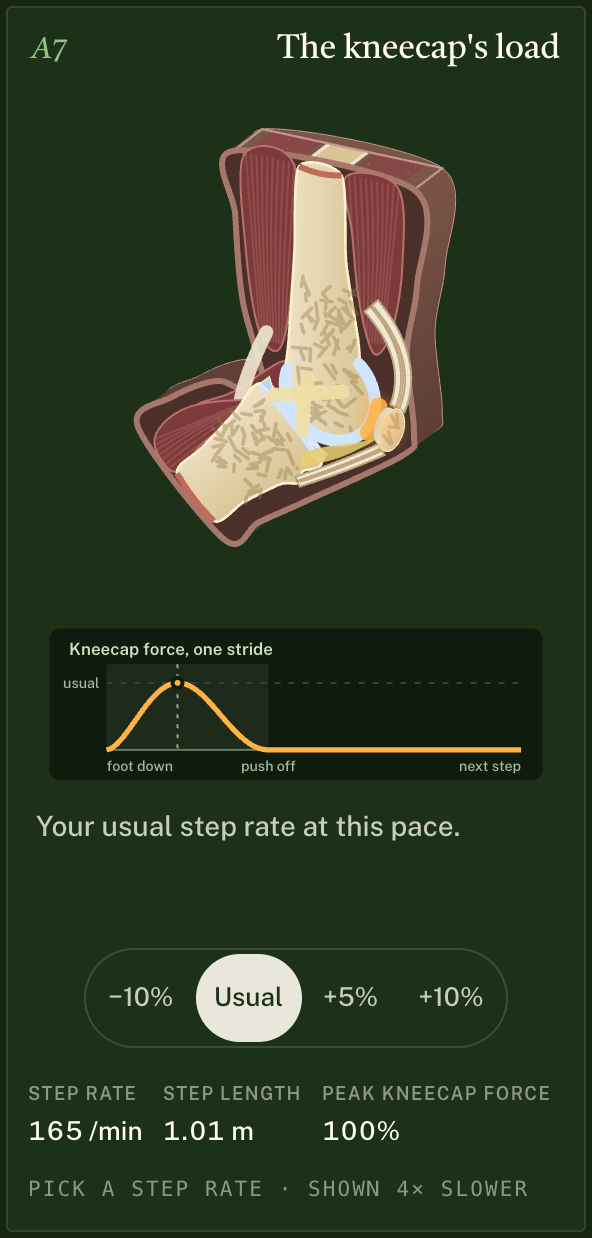
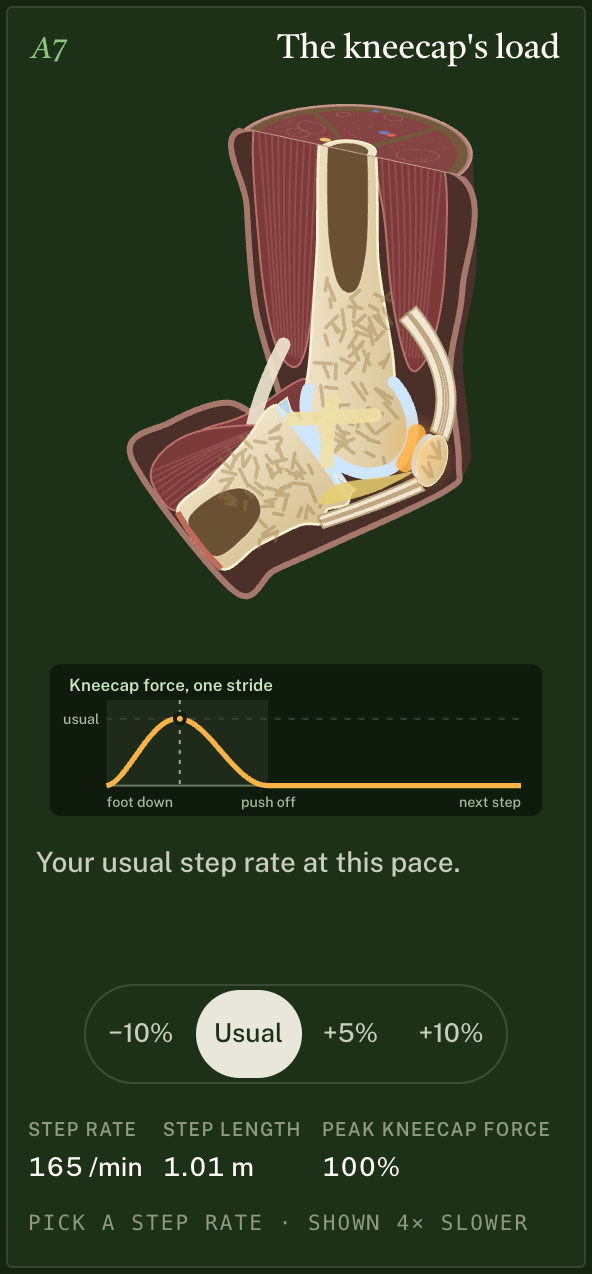
A7: the knee becomes a leg cut in half, with a round far half
Peter on the slab: "better, but it looks like an unnatural slice." The
leg is now hemisected: the section is the cut face, the near half is
gone, and the far half keeps its round skin.

- live.js drawFar(): the back and front skin edges are paired by arc
  length into 46 chords, and each is swept round behind the cut as a
  half-circle. Facets facing away are culled; the rest are Lambert
  shaded between the theme's skin tones and painted back to front. It
  follows the stride, and the knee bend needs no special case.
- Top: the far half of the thigh cut straight across. Femur cortex
  ring with marrow, intermuscular septa, rectus femoris, sartorius,
  gracilis and hamstrings, femoral artery and vein, great saphenous
  vein and the sciatic nerve.
- Cut face: clipped flat at the thigh's cut, with marrow canals added
  to the femur and tibia shafts.
- The frame is fitted to the real reach over the stride, so the knee
  is back to about its round-1 size.
- review/a7-rounds-*.png: flat, slab and cut-in-half side by side.
- Verified: 390/360/320 in both themes, reduced motion and desktop
  (peak force and swing). No sideways scroll, console clean, line
  ends 0.

diff --git a/figures/a7-knee/live.js b/figures/a7-knee/live.js
@@ -1,6 +1,7 @@
 // A7 live code: one running stride, slowed. The tibia swings about the condyle by bendAt(φ);
 // the kneecap is placed on its groove where the patellar tendon (fixed length) reaches the
-// tibial tuberosity; tendons, fat pad, ligaments, calf and skin (and the slab's outer surface) follow. While the foot is down,
+// tibial tuberosity; tendons, fat pad, ligaments, calf and skin follow, and the far half of the leg
+// keeps its round skin behind the cut. While the foot is down,
 // the kneecap's contact glows with pfAt(φ) from Fig 4's kneeOf.
 const DATA = __DATA__;
 
@@ -47,6 +48,98 @@ function mount(fig) {
       R.push([p[0] - n[0] * w, p[1] - n[1] * w]);
     });
     return { d: `M${[...L, ...R.reverse()].map((p) => `${f1(p[0])} ${f1(p[1])}`).join("L")}Z`, pts };
+  }
+
+  // ---------------------------------------------------------------- the far half of the leg (round skin behind the cut)
+  // The skin's back and front edges are paired into chords along the leg; each chord is swept round
+  // as a half-circle behind the cut (depth = half its length × FAR.round). Facets facing away are
+  // culled, the rest shaded by facing and painted back to front.
+  const FAR = DATA.far;
+  const sA = Math.sin(FAR.A * RAD), cA = Math.cos(FAR.A * RAD), sE = Math.sin(FAR.E * RAD), cE = Math.cos(FAR.E * RAD);
+  const VIEW = [cA * cE, sA * cE, sE];
+  const LIGHT = (() => {
+    const l = [-0.35, 0.55, 0.76];
+    const m = Math.hypot(...l);
+    return l.map((v) => v / m);
+  })();
+  const css = getComputedStyle(fig);
+  const rgbOf = (name, fb) => {
+    const m = /^#?([0-9a-f]{6})$/i.exec((css.getPropertyValue(name) || fb).trim()) || /^#?([0-9a-f]{6})$/i.exec(fb);
+    return [0, 2, 4].map((i) => parseInt(m[1].slice(i, i + 2), 16));
+  };
+  const SKIN_HI = rgbOf("--a7-w0", "#f0d3c2");
+  const SKIN_LO = rgbOf("--a7-w1", "#d5a691");
+  const tone = (t) => `rgb(${SKIN_LO.map((lo, i) => Math.round(lo + (SKIN_HI[i] - lo) * t)).join(",")})`;
+  function sampleCR(points, k = 0.9, steps = 8) {
+    const n = points.length;
+    const at = (i) => points[Math.max(0, Math.min(n - 1, i))];
+    const out = [points[0]];
+    for (let i = 0; i < n - 1; i++) {
+      const p0 = at(i - 1), p1 = at(i), p2 = at(i + 1), p3 = at(i + 2);
+      const c1 = [p1[0] + ((p2[0] - p0[0]) / 6) * k, p1[1] + ((p2[1] - p0[1]) / 6) * k];
+      const c2 = [p2[0] - ((p3[0] - p1[0]) / 6) * k, p2[1] - ((p3[1] - p1[1]) / 6) * k];
+      for (let s = 1; s <= steps; s++) {
+        const t = s / steps;
+        const u = 1 - t;
+        out.push([0, 1].map((c) => u * u * u * p1[c] + 3 * u * u * t * c1[c] + 3 * u * t * t * c2[c] + t * t * t * p2[c]));
+      }
+    }
+    return out;
+  }
+  function byLength(pts, n) {
+    const acc = [0];
+    for (let i = 1; i < pts.length; i++) acc.push(acc[i - 1] + Math.hypot(pts[i][0] - pts[i - 1][0], pts[i][1] - pts[i - 1][1]));
+    const L = acc[acc.length - 1];
+    const out = [];
+    let j = 0;
+    for (let q = 0; q < n; q++) {
+      const want = (L * q) / (n - 1);
+      while (j < acc.length - 2 && acc[j + 1] < want) j++;
+      const t = (want - acc[j]) / (acc[j + 1] - acc[j] || 1);
+      out.push([pts[j][0] + (pts[j + 1][0] - pts[j][0]) * t, pts[j][1] + (pts[j + 1][1] - pts[j][1]) * t]);
+    }
+    return out;
+  }
+  const NL = 46;
+  const NPHI = 36;
+  function drawFar(back, front) {
+    const A = byLength(sampleCR(back), NL);
+    const B = byLength(sampleCR(front), NL);
+    const lv = A.map((a, i) => {
+      const b = B[i];
+      const h = [(b[0] - a[0]) / 2, (b[1] - a[1]) / 2];
+      const r = Math.hypot(h[0], h[1]);
+      return { m: [(a[0] + b[0]) / 2, (a[1] + b[1]) / 2], h, r, u: [h[0] / r, h[1] / r] };
+    });
+    const pt = (l, ph) => {
+      const d = Math.sin(ph) * l.r * FAR.round;
+      return [l.m[0] + Math.cos(ph) * l.h[0] + d * FAR.w[0], l.m[1] + Math.cos(ph) * l.h[1] + d * FAR.w[1]];
+    };
+    const quads = [];
+    for (let i = 0; i < NL - 1; i++) {
+      const l0 = lv[i];
+      const l1 = lv[i + 1];
+      const ux = l0.u[0] + l1.u[0];
+      const uy = l0.u[1] + l1.u[1];
+      const um = Math.hypot(ux, uy) || 1;
+      for (let j = 0; j < NPHI; j++) {
+        const p0 = (j / NPHI) * Math.PI;
+        const p1 = ((j + 1) / NPHI) * Math.PI;
+        const pm = (p0 + p1) / 2;
+        // outward normal in world (x right, y toward the viewer, z up)
+        const n = [(Math.cos(pm) * ux) / um, -Math.sin(pm), (-Math.cos(pm) * uy) / um];
+        const facing = n[0] * VIEW[0] + n[1] * VIEW[1] + n[2] * VIEW[2];
+        if (facing <= 0.01) continue;
+        const lit = Math.max(0, n[0] * LIGHT[0] + n[1] * LIGHT[1] + n[2] * LIGHT[2]);
+        const c = [(l0.m[0] + l1.m[0]) / 2 + Math.cos(pm) * (l0.h[0] + l1.h[0]) / 2, (l0.m[1] + l1.m[1]) / 2 + Math.cos(pm) * (l0.h[1] + l1.h[1]) / 2];
+        const d = Math.sin(pm) * ((l0.r + l1.r) / 2) * FAR.round;
+        const key = (c[0] * cA + (FAR.dep - d) * sA) * cE - c[1] * sE;
+        const q = [pt(l0, p0), pt(l1, p0), pt(l1, p1), pt(l0, p1)];
+        quads.push({ key, d: `M${q.map((v) => `${f1(v[0])} ${f1(v[1])}`).join("L")}Z`, fill: tone(Math.min(1, 0.18 + 0.95 * lit)) });
+      }
+    }
+    quads.sort((a, b) => a.key - b.key);
+    q('[data-part="far"]').innerHTML = quads.map((v) => `<path d="${v.d}" fill="${v.fill}" stroke="${v.fill}" stroke-width="0.7" stroke-linejoin="round"/>`).join("");
   }
 
   // ---------------------------------------------------------------- kinematics
@@ -123,10 +216,10 @@ function mount(fig) {
     const ho = [CF[0] + RC * Math.cos(195 * RAD), CF[1] + RC * Math.sin(195 * RAD)];
     set("gastro", "d", smoothP([[ho[0] - 2, ho[1] - 12], [ho[0] + 14, ho[1] + 6], W([-44, 112]), W([-62, 170]), W([-86, 168]), W([-72, 112])]));
     set("hamt", "d", `M214 214Q${f1((214 + W([-58, 112])[0]) / 2 - 10)} ${f1((214 + W([-58, 112])[1]) / 2 + 10)} ${f1(W([-58, 112])[0])} ${f1(W([-58, 112])[1])}`);
-    const skin = smoothP([[170, -14], [414, -14], [418, 110], [404, 200], patLocal(alpha, [32, -14]), patLocal(alpha, [30, 22]), W([84, 128]), W([70, 200]), W([62, 256]), W([-108, 256]), W([-112, 190]), W([-92, 118]), [214, CF[1] + 26], [182, 180], [172, 70]], true, 0.9);
-    set("skin", "d", skin);
-    // the slab's outer surface is the same outline swept back (stacked <use> clones of this path)
-    q('[data-part="sil"]')?.setAttribute("d", skin);
+    const frontEdge = [[414, -14], [418, 110], [404, 200], patLocal(alpha, [32, -14]), patLocal(alpha, [30, 22]), W([84, 128]), W([70, 200]), W([62, 256])];
+    const backEdge = [[170, -14], [172, 70], [182, 180], [214, CF[1] + 26], W([-92, 118]), W([-112, 190]), W([-108, 256])];
+    set("skin", "d", smoothP([[170, -14], ...frontEdge, ...[...backEdge].reverse().slice(0, -1)], true, 0.9));
+    drawFar(backEdge, frontEdge);
     // monitor
     const xOf = (p) => MON.x0 + p * (MON.x1 - MON.x0);
     const yOf = (v) => MON.y0 - (v / MON.max) * (MON.y0 - MON.y1);

diff --git a/figures/a7-knee/figure.css b/figures/a7-knee/figure.css
@@ -52,19 +52,23 @@
 .a7-par:first-child { margin-top: 0; }
 .a7-par small { font-size: 12.5px; color: var(--anatomy-muted); }
 
-/* the slab: a thick slice of the knee as a specimen (round 2) */
-.iso.optimal { --a7-soft: #4a3029; --a7-dermis: #a5786b; --a7-w0: #7d5649; --a7-w1: #4b3029; --a7-wall-edge: #c4978a; --a7-top-soft: #6e4a3f; --a7-top-light: rgba(255, 236, 220, 0.08); }
-.iso.optimal[data-theme="light"] { --a7-soft: #f6e4d4; --a7-dermis: #c99582; --a7-w0: #f0d3c2; --a7-w1: #d5a691; --a7-wall-edge: #a97362; --a7-top-soft: #f7e3d3; --a7-top-light: rgba(255, 255, 255, 0.22); }
+/* round 2: the leg cut in half lengthwise; the cut face is the section, the far half stays round */
+.iso.optimal { --a7-soft: #4a3029; --a7-dermis: #a5786b; --a7-w0: #9a6e5f; --a7-w1: #3a241f; --a7-fat-x: #6a5133; --a7-cap-light: rgba(255, 236, 220, 0.06); --a7-cap-edge: #c4978a; --a7-art-x: #d8584a; --a7-vein-x: #6a6fb0; --a7-nerve-x: #e3c46a; }
+.iso.optimal[data-theme="light"] { --a7-soft: #f6e4d4; --a7-dermis: #c99582; --a7-w0: #f7e2d5; --a7-w1: #c9917b; --a7-fat-x: #f6deaa; --a7-cap-light: rgba(255, 255, 255, 0.18); --a7-cap-edge: #a97362; --a7-art-x: #c9483a; --a7-vein-x: #5f66b4; --a7-nerve-x: #d9b24a; }
 .a7-slab .a7-skin { fill: var(--a7-soft); stroke: var(--a7-dermis); stroke-width: 3; }
 .a7-slab .a7-quad, .a7-slab .a7-ham, .a7-slab .a7-gastro, .a7-slab .a7-calf { opacity: 1; }
-.a7-wall { fill: url(#a7-wallg); }
-.a7-wall-back { stroke: var(--a7-wall-edge); stroke-width: 1.2; stroke-linejoin: round; }
-.a7-w0 { stop-color: var(--a7-w0); } .a7-w1 { stop-color: var(--a7-w1); }
 .a7-fasc { fill: none; stroke: var(--a7-muscle-edge); stroke-width: 1; opacity: 0.35; stroke-linecap: round; }
-.a7-top-soft { fill: var(--a7-top-soft); }
-.a7-top-muscle { fill: var(--a7-muscle); }
-.a7-top-bone { fill: var(--a7-bg1); }
-.a7-top-cortex { fill: var(--a7-bg0); }
-.a7-top-fasc { fill: var(--a7-muscle-edge); opacity: 0.5; }
-.a7-top-light { fill: var(--a7-top-light); }
-.a7-top-edge { fill: none; stroke: var(--a7-wall-edge); stroke-width: 1.1; stroke-linejoin: round; }
+.a7-cap-skin { fill: var(--a7-dermis); }
+.a7-cap-fat { fill: var(--a7-fat-x); }
+.a7-cap-muscle { fill: var(--a7-muscle); }
+.a7-cap-fasc { fill: var(--a7-muscle-edge); opacity: 0.45; }
+.a7-cap-mus ellipse { fill: none; stroke: var(--a7-muscle-edge); stroke-width: 0.9; opacity: 0.7; }
+.a7-cap-septum { fill: none; stroke: var(--a7-fat-x); stroke-width: 2.2; stroke-linecap: round; }
+.a7-cap-bone { fill: var(--a7-bg0); stroke: var(--a7-bone-edge); stroke-width: 0.8; }
+.a7-cap-marrow { fill: var(--a7-fat-x); }
+.a7-cap-art ellipse { fill: var(--a7-art-x); }
+.a7-cap-vein ellipse { fill: var(--a7-vein-x); }
+.a7-cap-nerve ellipse { fill: var(--a7-nerve-x); }
+.a7-cap-light { fill: var(--a7-cap-light); }
+.a7-cap-edge { fill: none; stroke: var(--a7-cap-edge); stroke-width: 1; }
+.a7-canal { fill: var(--a7-fat-x); stroke: var(--a7-bone-edge); stroke-width: 0.6; stroke-opacity: 0.5; }

diff --git a/figures/a7-knee/NOTES.md b/figures/a7-knee/NOTES.md
@@ -1,6 +1,6 @@
 # A7 · The kneecap's load
 
-**What it is:** a thick slice of the knee as an anatomical specimen in isometric 3-D (round 2, 2026-10-12). Its cut face is the knee in side section, front to the right, through one running stride shown 4× slower. It is the inside view of Fig 4 (Creator 600). The section is hand-drawn organic SVG in the A-series style:
+**What it is:** the leg cut in half lengthwise at the knee, in isometric 3-D (round 2, 2026-10-12). Its cut face is the knee in side section, front to the right, through one running stride shown 4× slower. It is the inside view of Fig 4 (Creator 600). The section is hand-drawn organic SVG in the A-series style:
 - the femur, fixed in view, with a trabecular texture and a cut end;
 - the tibia swinging about the condyle;
 - the kneecap gliding in its groove on a fixed-length patellar tendon;
@@ -32,34 +32,39 @@
 - **Offscreen:** rendering stops out of view.
 - **Reduced motion:** one still at mid-stance, the deepest bend and most force.
 
-## Round 2 (2026-10-12): the specimen slab, the approach for the organ pieces
+## Round 2 (2026-10-12): the leg cut in half, the approach for the organ pieces
 
 Peter's decision: every A-piece goes 3-D. The organ pieces (A2, A4, A6, A7) don't fit a tissue block, so A7 tries the approach for all four first; **A2, A4 and A6 wait for Peter's OK.**
 
-**Approach:** HANDOFF-LOCAL §5.2 option (a), "a deep slab", done in true isometric rather than as a plate under a flat drawing.
-- The section becomes the cut face of a thick slice of the organ, in the same camera as the blocks (azimuth 62°, elevation 24°).
-- The organ's outline is swept back through the slice's thickness to make its outer surface.
-- Where the slice is cut across, the cut end shows its own section.
+**Two tries:**
+1. **Specimen slab.** The outline was extruded back at constant thickness (stacked `<use>` clones). Peter: "better, but it looks like an unnatural slice of some kind."
+2. **The leg cut in half lengthwise (current).** The near half is removed and the far half keeps its round skin. This is how a hemisected limb really looks, and how textbook cut-away illustrations draw one.
 
-**Why this over the other two §5.2 options:**
-- (b) shading alone keeps the pieces flat, in a different camera from the blocks;
-- (c) a true isometric rebuild would mean redrawing and re-solving every moving part.
+**Construction:**
+- **Camera:** the series camera (azimuth 62°, elevation 24°).
+- **Cut face:** the original section, placed with `planeMatrix` on the cut plane and clipped flat at the thigh's cut (y = −14).
+  - Muscle and femur tops run past the cut, so the clip leaves them cut square.
+  - New marrow canals in the femur and tibia shafts match the cross-section on top.
+  - Soft tissue fills the skin outline, and fascicle lines run along the quadriceps, hamstrings and calf.
+- **Far half (live, in `live.js` `drawFar`):**
+  - The skin's back and front edges are sampled on the same Catmull-Rom curve as the outline and paired by arc length into 46 chords along the leg.
+  - Each chord is swept round behind the cut as a half-circle (depth = half its length × 0.95; thigh and calf are near-round in cross-section).
+  - Facets facing away from the viewer are culled. The rest are shaded by facing (Lambert, light from upper left front) between the theme's two skin tones and painted back to front.
+  - The knee bend needs no special case, because the chords rotate with the shin.
+  - At this camera only the near-edge crescent shows (as it would on a real half-limb), so it reads round without hiding anything.
+- **Top: the far half of the thigh cut straight across** (static, `planeMatrix` on the horizontal cut plane):
+  - skin and the subcutaneous fat ring;
+  - the femur as a half-ring of cortex with its marrow;
+  - anterior, medial and posterior compartments split by intermuscular septa, with muscle outlines for the rectus femoris, sartorius, gracilis and hamstrings, and fascicle dots;
+  - the femoral artery and vein, the great saphenous vein in the fat, and the sciatic nerve.
 
-**Construction (A7):**
-- **Cut face:** the original section, unchanged, placed with `planeMatrix` on the slice's front plane (y = DEP). `live.js` still draws everything in section coordinates.
-- **Outer surface (skin):** live. One hidden path (`#a7-sil`) carries the skin outline that `live.js` already computes each frame. 50 `<use>` clones of it are translated back through the slice depth (the depth vector expressed in the cut face's own coordinates, `WD` = M⁻¹·v), so the walls follow the swinging shin with no extra geometry.
-  - Fill: a vertical gradient.
-  - The back clone carries the far edge line.
-  - Because a prism's visible surface is exactly its front face plus its swept outline, this is correct in every pose.
-- **Top (thigh cut across):** static bands: skin and fat | hamstrings | femur (cortex and cancellous bone) | quadriceps | skin and fat, with fascicle dots in the muscles.
-- **Shin cut across:** never visible. Its outward normal points away from the viewer for every bend from 0° to 105°, so it isn't drawn.
-- **Cut face, made opaque:** soft tissue fills the skin outline, the muscles are solid, and fascicle lines run along the quadriceps, hamstrings and calf (clipped to each muscle).
-- **Slice depth:** 72 units (about 35 mm at the section's scale).
-- **Size:** the camera is fitted to the section's reach over a whole stride (straight at foot contact, 105° in swing), so nothing clips in any pose. The monitor sits flat underneath, and the view is 600 × 772.
+  Positions are textbook-level ([K]) and carry no numbers.
+- **Shin's cut end:** never visible. Its outward normal faces away for every bend from 0° to 105°.
+- **Frame:** fitted to the cut face's real reach over a whole stride, computed from the same control points `live.js` uses, plus the top cross-section. The knee is back to about its round-1 size, and the view is 600 × 812.
 
-**live.js change:** one line. `draw()` also writes the skin outline to `#a7-sil`.
+**live.js changes:** `drawFar()` (about 90 lines), and the skin outline is now built from its two edges, so the far half and the outline share the same points.
 
-## Verification (2026-10-12, slab, local)
+## Verification (2026-10-12, local)
 
 - `node scripts/verify.mjs a7-knee`: passed.
 - No console errors, and no sideways scroll at 390, 360 or 320 in either theme.
@@ -69,6 +74,7 @@ Peter's decision: every A-piece goes 3-D. The organ pieces (A2, A4, A6, A7) don'
   - `shots/phone-{390,360,320}-{dark,light}.png` and `shots/desktop-{dark,light}.png` (Usual, at the peak kneecap force);
   - `shots/desktop-swing-{dark,light}.png` (deep swing);
   - `shots/reduced-390-*.png`.
+- Round-by-round comparison: `review/a7-rounds-desktop.png`, `review/a7-rounds-phone.png`.
 
 ## Embed
 

diff --git a/HANDOFF-LOCAL.md b/HANDOFF-LOCAL.md
@@ -37,7 +37,7 @@ claude                                # Claude Code reads CLAUDE.md on start
 | A4 | Beating heart | Built, round 2 (flat, organ) | `a4-heart` |
 | A5 | Air sac and red cell | **Round 2 · 3-D block of lung** (2026-10-12): Voronoi foam cut on three faces, one sac opened with its bowl, duct to the top | `a5-alveolus` |
 | A6 | Red cell's 120 days | Built (flat, a loop diagram) | `a6-red-cell-cycle` |
-| A7 | Kneecap's load | **Round 2 · 3-D specimen slab** (2026-10-12): the organ-piece approach, **waiting on Peter's OK** before A2/A4/A6 | `a7-knee` |
+| A7 | Kneecap's load | **Round 2 · 3-D, leg cut in half** (2026-10-12): far half stays round (live), thigh cross-section on top. The organ-piece approach, **waiting on Peter's OK** before A2/A4/A6 | `a7-knee` |
 | A8 | Water in and around the fibres | **Round 2 · 3-D bundle**: slice on the face of a muscle cylinder; body redrawn live | `a8-muscle-water` |
 | A9 | Digging and filling (bone) | **Round 2 · 3-D block**; caption uses the Menopause Protocol's Greendale numbers | `a9-bone-remodelling` |
 

diff --git a/BACKLOG.md b/BACKLOG.md
@@ -40,7 +40,7 @@ Each piece is done when it meets the same bar as HANDOFF §2, adapted:
 | A9 | done: bone-and-marrow block |
 | A1 | done: gut-lining block (brush border on top, cells on the end face), 2026-10-12 |
 | A5 | done: lung-tissue block with the air sac opened (2026-10-12) |
-| A7 | done: specimen slab (cut face + swept live outline + cut ends), 2026-10-12 |
+| A7 | done: leg cut in half lengthwise (cut face + round far half drawn live + thigh cross-section on top), 2026-10-12. The flat-walled slab try read as "an unnatural slice" |
 | A2, A4, A6 | same slab approach once Peter OKs A7 |
 
 Recipe: HANDOFF-LOCAL §6.
